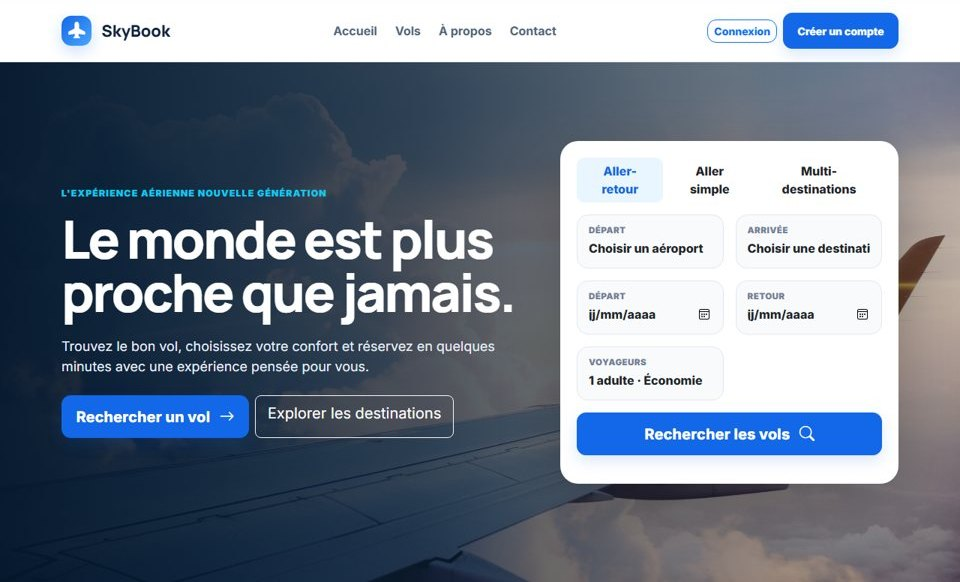
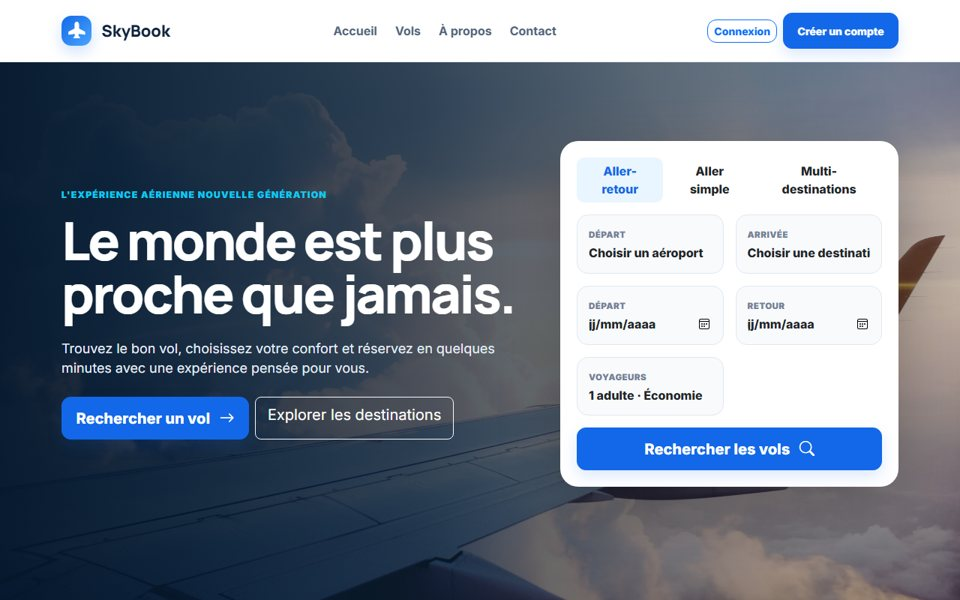
Portfolio: Skybook en ligne (jean-marie.wuaze.com), capture du site déployé

diff --git a/index.html b/index.html
@@ -236,16 +236,16 @@
     </article>
 
     <article class="card reveal" data-cat="perso" style="--a:#38bdf8;--b:#818cf8">
-      <a class="card__cover" href="https://github.com/jeanmarie2006/skybook" target="_blank" rel="noopener" aria-label="Voir le code de Skybook sur GitHub">
-        <img src="assets/skybook.jpg" alt="Page d'accueil de Skybook : « Le monde est plus proche que jamais » avec le moteur de recherche de vols" loading="lazy" width="960" height="582">
+      <a class="card__cover" href="https://jean-marie.wuaze.com" target="_blank" rel="noopener" aria-label="Ouvrir le site Skybook">
+        <img src="assets/skybook.jpg" alt="Page d'accueil de Skybook : « Le monde est plus proche que jamais » avec le moteur de recherche de vols" loading="lazy" width="960" height="600">
         <span class="card__go" aria-hidden="true">↗</span>
       </a>
       <div class="card__body">
-        <div class="card__meta"><span>Application web</span><span>Laravel 12</span></div>
+        <div class="card__meta"><span>Application web</span><span>Laravel 12 · en ligne</span></div>
         <h3>Skybook — Réservation de vols</h3>
         <p>Recherche de vols avec filtres, réservation en 3 étapes (voyageurs, sièges et options, paiement simulé), billet, et back-office : vols, compagnies, aéroports, tarifs, promotions, remboursements et rapports.</p>
         <ul class="tags"><li>Laravel 12</li><li>MySQL</li><li>Back-office admin</li></ul>
-        <div class="card__links"><a class="is-main" href="https://github.com/jeanmarie2006/skybook" target="_blank" rel="noopener">Voir le code sur GitHub <span aria-hidden="true">↗</span></a></div>
+        <div class="card__links"><a class="is-main" href="https://jean-marie.wuaze.com" target="_blank" rel="noopener">Voir le site <span aria-hidden="true">↗</span></a><a href="https://github.com/jeanmarie2006/skybook" target="_blank" rel="noopener">Code GitHub <span aria-hidden="true">↗</span></a></div>
       </div>
     </article>
 
